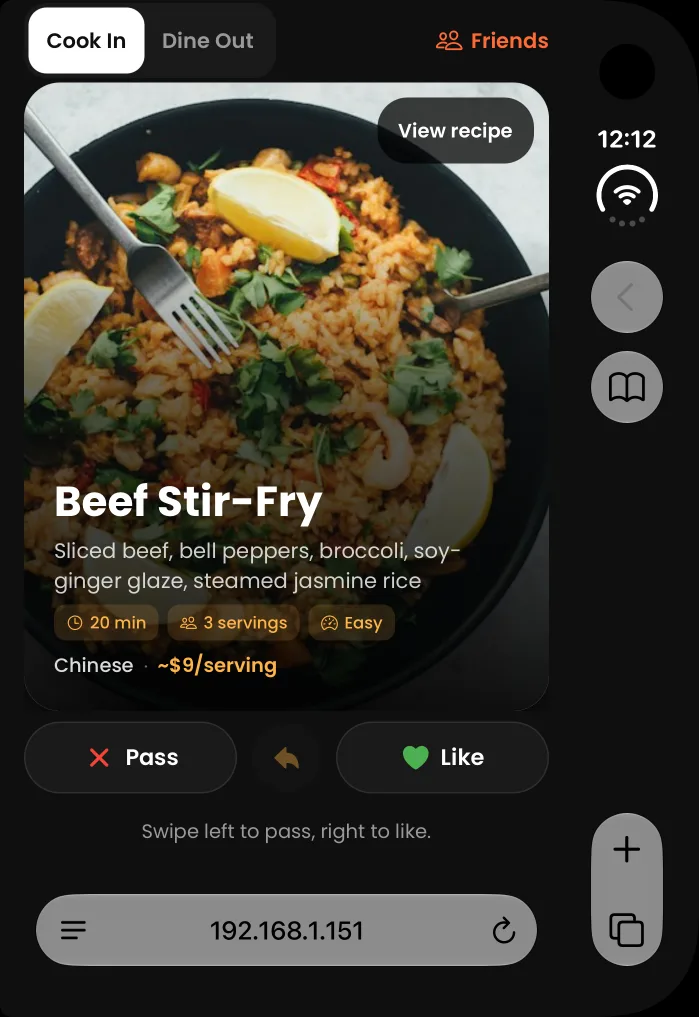
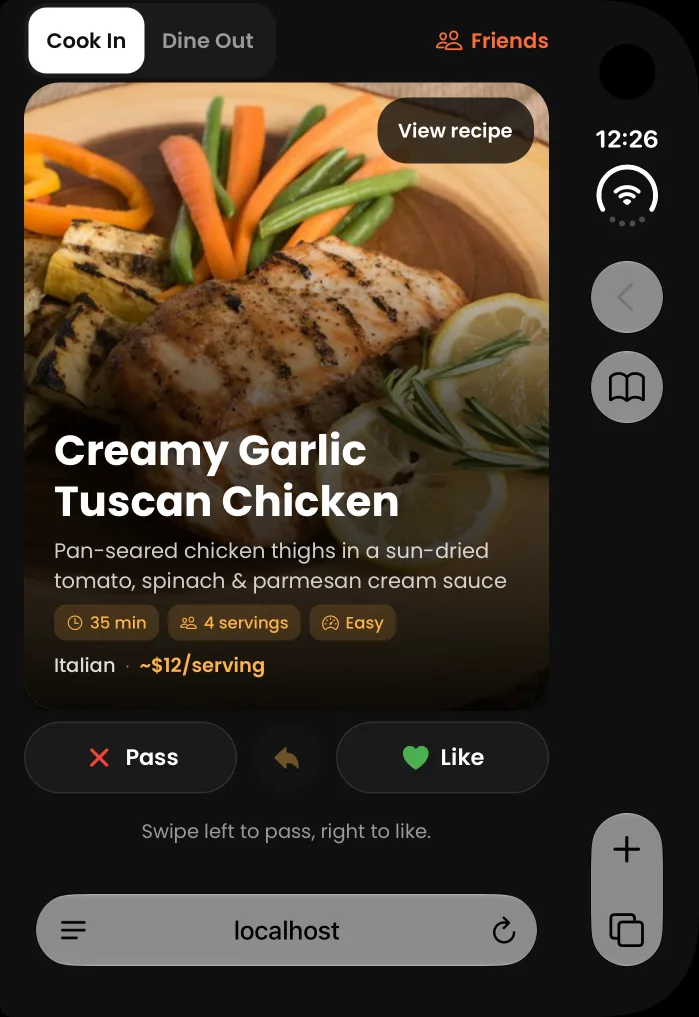
Bring momentum and spring feedback back to swiping

diff --git a/components/DishCard.tsx b/components/DishCard.tsx
@@ -1,10 +1,11 @@
-import React, { useEffect, useImperativeHandle, useRef } from "react";
+import React, { useEffect, useImperativeHandle, useRef, useState } from "react";
 import { View, Text, StyleSheet, Pressable, type GestureResponderEvent } from "react-native";
 import { Image } from "expo-image";
 import * as Haptics from "expo-haptics";
 import Animated, {
-  useSharedValue, useAnimatedStyle, withTiming, withRepeat,
-  withSequence, runOnJS, Easing,
+  cancelAnimation, clamp, Easing, runOnJS, useAnimatedReaction, useAnimatedStyle,
+  useDerivedValue, useReducedMotion, useSharedValue, withRepeat, withSequence,
+  withSpring, withTiming, type SharedValue,
 } from "react-native-reanimated";
 import Ionicons from "@expo/vector-icons/Ionicons";
 import { LinearGradient } from "expo-linear-gradient";
@@ -18,7 +19,21 @@ import { resolveImageUrl } from "@/lib/query-client";
 
 const TAP_SLOP = 8;
 const SWIPE_FRACTION = 0.3;
+const MAX_TILT = 5;
+const FLICK_SPEED = 700; // points per second
+const VELOCITY_WINDOW_MS = 100;
 export type DishCardHandle = { swipe: (direction: SwipeVote) => void };
+type TouchSample = { x: number; time: number };
+
+function releaseVelocity(samples: TouchSample[], x: number, time: number) {
+  const last = samples[samples.length - 1];
+  // Lifting a finger often repeats its last position one or two frames later.
+  const end = x === last.x ? last : { x, time };
+  const first = samples.find(point => end.time - point.time <= VELOCITY_WINDOW_MS);
+  if (!first || end.time <= first.time) return 0;
+  const carry = clamp((VELOCITY_WINDOW_MS - (time - end.time)) / 70, 0, 1);
+  return carry * (end.x - first.x) * 1000 / (end.time - first.time);
+}
 
 // A restaurant's dishes, one at a time: tap the right half for the next
 // dish, the left half for the previous one. A swipe votes on the dish
@@ -32,8 +47,7 @@ export function DishCard({
   onSwipeEnd,
   onViewRecipe,
   isTop,
-  scale,
-  offset,
+  reveal,
   showHint = false,
 }: {
   ref?: React.Ref<DishCardHandle>;
@@ -46,17 +60,19 @@ export function DishCard({
   onSwipeEnd?: (dishes: Dish[]) => void;
   onViewRecipe?: (dish: Dish) => void;
   isTop: boolean;
-  scale: number;
-  offset: number;
+  reveal: SharedValue<number>;
   // Show the "tap the sides" hint (until the first flip).
   showHint?: boolean;
 }) {
   const dish = dishes[index] ?? dishes[0];
   const count = dishes.length;
   const surface = useRef<React.ComponentRef<typeof View>>(null);
-  const width = useRef(0);
+  const [width, setWidth] = useState(0);
   const leaving = useRef(false);
-  const touchStart = useRef<{ x: number; y: number } | null>(null);
+  const touchStart = useRef<{
+    x: number; y: number; offset: number; samples: TouchSample[];
+  } | null>(null);
+  const reduceMotion = useReducedMotion();
 
   // A slow pulse so the hint reads as something to act on.
   const hintPulse = useSharedValue(1);
@@ -80,39 +96,51 @@ export function DishCard({
   }, [isTop, dishes]);
 
   const translateX = useSharedValue(0);
-  const progress = useSharedValue(0);
+  const fraction = useDerivedValue(() => width > 0 ? translateX.get() / width : 0);
+  useAnimatedReaction(
+    () => isTop ? Math.min(1, Math.abs(fraction.get()) / 0.75) : null,
+    value => { if (value !== null) reveal.set(value); }
+  );
 
-  function recenter() {
+  function recenter(velocity = 0) {
     if (leaving.current) return;
-    translateX.set(withTiming(0, { duration: 150 }));
-    progress.set(withTiming(0, { duration: 150 }));
+    translateX.set(withSpring(0, { mass: 0.75, stiffness: 280, damping: 21, velocity: clamp(velocity, -1000, 1000) }));
   }
-  function swipe(direction: SwipeVote) {
+  function swipe(direction: SwipeVote, velocity = 0) {
     if (leaving.current) return;
-    if (!isTop || !width.current || !onSwipe?.(direction, dish)) {
+    if (!isTop || !width || !onSwipe?.(direction, dish)) {
       recenter();
       return;
     }
     leaving.current = true;
     const sign = direction === "like" ? 1 : -1;
-    progress.set(withTiming(sign, { duration: 90 }));
+    const x = translateX.get();
+    const target = sign * Math.max(width * 1.15, sign * x + 16);
+    const distance = Math.abs(target - x);
+    const speed = Math.max(0, sign * velocity);
+    const duration = clamp(1000 * distance / Math.max(width * 2.9, speed * 1.25), 100, 290);
+    // Match the curve's initial slope to the finger's release speed, then ease out.
+    const initialSlope = clamp(speed * duration / (1000 * distance), 0, 2);
+    const easing = Easing.bezier(1 / 3, initialSlope / 3, 2 / 3, 1);
     const complete = () => onSwipeEnd?.(dishes);
-    translateX.set(withTiming(sign * width.current, { duration: 200, easing: Easing.out(Easing.quad) }, finished => {
+    translateX.set(withTiming(target, { duration, easing }, finished => {
       if (finished) runOnJS(complete)();
     }));
   }
   useImperativeHandle(ref, () => ({ swipe }));
 
   function move({ nativeEvent }: GestureResponderEvent) {
-    if (leaving.current || !touchStart.current || !width.current) return;
+    const start = touchStart.current;
+    if (leaving.current || !start || !width) return;
     if (nativeEvent.touches.length > 1) {
       touchStart.current = null;
       recenter();
       return;
     }
-    const dx = nativeEvent.pageX - touchStart.current.x;
-    translateX.set(dx);
-    progress.set(Math.max(-1, Math.min(1, dx / (width.current * SWIPE_FRACTION))));
+    const time = nativeEvent.timestamp;
+    start.samples = start.samples.filter(sample => time - sample.time <= VELOCITY_WINDOW_MS);
+    start.samples.push({ x: nativeEvent.pageX, time });
+    translateX.set(start.offset + nativeEvent.pageX - start.x);
   }
   function release({ nativeEvent }: GestureResponderEvent) {
     const start = touchStart.current;
@@ -121,11 +149,13 @@ export function DishCard({
     const end = nativeEvent.changedTouches[0] ?? nativeEvent;
     const dx = end.pageX - start.x;
     const dy = end.pageY - start.y;
-    if (width.current > 0 && Math.abs(dx) > width.current * SWIPE_FRACTION && Math.abs(dx) > Math.abs(dy)) {
-      swipe(dx > 0 ? "like" : "pass");
+    const velocity = releaseVelocity(start.samples, end.pageX, end.timestamp);
+    const flick = Math.abs(dx) >= Math.max(60, width * 0.16) && Math.sign(dx) * velocity >= FLICK_SPEED;
+    if (width > 0 && Math.abs(dx) > Math.abs(dy) && (Math.abs(dx) > width * SWIPE_FRACTION || flick)) {
+      swipe(dx > 0 ? "like" : "pass", velocity);
       return;
     }
-    recenter();
+    recenter(velocity);
     if (onIndexChange && count > 1 && Math.abs(dx) < TAP_SLOP && Math.abs(dy) < TAP_SLOP) {
       surface.current?.measureInWindow((left, _top, cardWidth) => {
         if (!surface.current || !cardWidth || leaving.current) return;
@@ -136,33 +166,41 @@ export function DishCard({
     }
   }
 
-  const cardStyle = useAnimatedStyle(() => ({
-    transform: [
-      { translateX: translateX.get() },
-      { scale: isTop ? 1 : scale },
-    ],
-    top: isTop ? 0 : offset,
-  }));
+  const cardStyle = useAnimatedStyle(() => {
+    const depth = isTop || reduceMotion ? 0 : 1 - reveal.get();
+    const tilt = isTop && !reduceMotion ? MAX_TILT * clamp(fraction.get() / 0.65, -1, 1) : 0;
+    return {
+      top: 0,
+      transform: [
+        { translateX: isTop ? translateX.get() : 0 }, { translateY: 3 * depth },
+        { rotate: `${tilt}deg` }, { scale: 1 - 0.04 * depth },
+      ],
+    };
+  });
 
   const likeStyle = useAnimatedStyle(() => ({
-    opacity: Math.max(0, progress.get()),
+    opacity: clamp(fraction.get() / SWIPE_FRACTION, 0, 1),
   }));
 
   const passStyle = useAnimatedStyle(() => ({
-    opacity: Math.max(0, -progress.get()),
+    opacity: clamp(-fraction.get() / SWIPE_FRACTION, 0, 1),
   }));
 
   return (
     <Animated.View
       ref={surface}
-      onLayout={({ nativeEvent }) => { width.current = nativeEvent.layout.width; }}
+      onLayout={({ nativeEvent }) => setWidth(nativeEvent.layout.width)}
       pointerEvents={isTop ? "auto" : "none"}
       aria-hidden={!isTop}
       importantForAccessibility={isTop ? "auto" : "no-hide-descendants"}
       style={[styles.card, cardStyle]}
       onStartShouldSetResponder={() => isTop && !leaving.current}
       onResponderGrant={({ nativeEvent }) => {
-        touchStart.current = { x: nativeEvent.pageX, y: nativeEvent.pageY };
+        cancelAnimation(translateX);
+        touchStart.current = {
+          x: nativeEvent.pageX, y: nativeEvent.pageY, offset: translateX.get(),
+          samples: [{ x: nativeEvent.pageX, time: nativeEvent.timestamp }],
+        };
       }}
       onResponderMove={move}
       onResponderRelease={release}

diff --git a/components/SwipeScreen.tsx b/components/SwipeScreen.tsx
@@ -2,6 +2,7 @@ import React, { useEffect, useMemo, useRef, useState } from "react";
 import { ActivityIndicator, Pressable, StyleSheet, Text, View } from "react-native";
 import { router, useIsFocused } from "expo-router";
 import { SafeAreaView, useSafeAreaFrame, useSafeAreaInsets } from "react-native-safe-area-context";
+import { useSharedValue } from "react-native-reanimated";
 import AsyncStorage from "@react-native-async-storage/async-storage";
 import Ionicons from "@expo/vector-icons/Ionicons";
 import * as Haptics from "expo-haptics";
@@ -72,6 +73,7 @@ export function SwipeScreen({ initialCode }: { initialCode?: string }) {
   const focused = useIsFocused();
   const [deck, setDeck] = useState<DeckState>(() => (initialCode ? guestDeck(initialCode) : cookDeck()));
   const card = useRef<DishCardHandle>(null);
+  const reveal = useSharedValue(0);
   const [outgoing, setOutgoing] = useState<{ dishes: Dish[]; index: number; key: string } | null>(null);
   const latest = useRef(deck);
   const personal = useRef<Partial<Record<SessionMode, DeckState>>>({});
@@ -415,7 +417,7 @@ export function SwipeScreen({ initialCode }: { initialCode?: string }) {
     const next = { ...current, history: [...current.history, { dish: item, vote: direction }], dishIndex: 0 };
     saveVotes(next);
     if (current.code) room.send({ type: "swipe", dishId: item.id, vote: direction, round: current.round });
-    void Haptics.selectionAsync();
+    void Haptics.impactAsync(Haptics.ImpactFeedbackStyle.Light);
     return true;
   }
   function undo() {
@@ -540,8 +542,7 @@ export function SwipeScreen({ initialCode }: { initialCode?: string }) {
                   key={cardKeyPrefix + behind[0].id}
                   dishes={behind}
                   isTop={false}
-                  scale={0.96}
-                  offset={3}
+                  reveal={reveal}
                 />
               )}
               <DishCard
@@ -558,8 +559,7 @@ export function SwipeScreen({ initialCode }: { initialCode?: string }) {
                 onSwipeEnd={finished => setOutgoing(current => current?.dishes === finished ? null : current)}
                 onViewRecipe={cook ? viewDetails : undefined}
                 isTop
-                scale={1}
-                offset={0}
+                reveal={reveal}
               />
             </>
           ) : (
